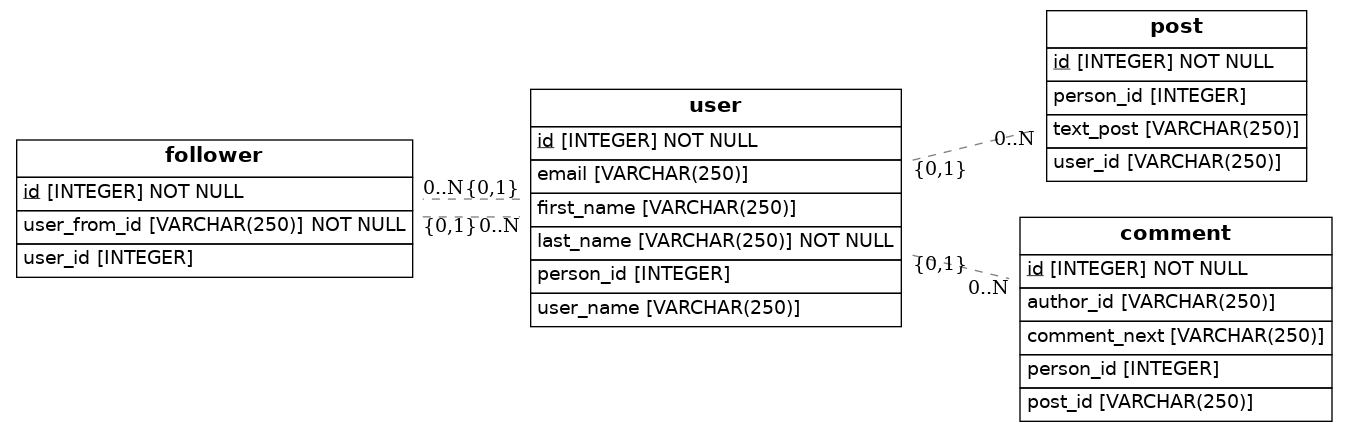
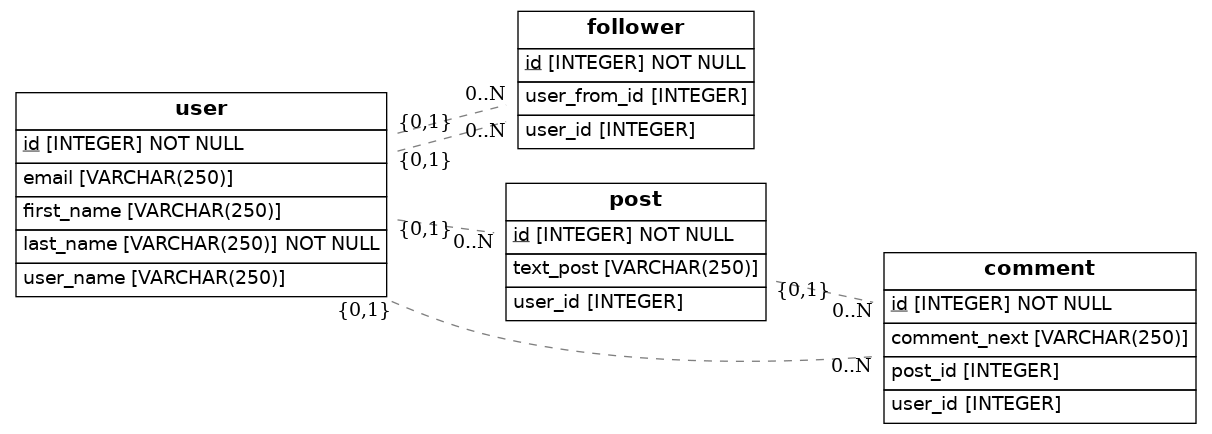
changes errors

diff --git a/src/models.py b/src/models.py
@@ -30,7 +30,7 @@ class Follower(Base):
     # Here we define columns for the table person
     # Notice that each column is also a normal Python instance attribute.
     id = Column(Integer, primary_key=True)
-    user_from_id = Column(String(250), nullable=False)
+    user_from_id = Column(Integer, ForeignKey('user.id'))  #Aqui deberia ir una ForeignKey
     user_id = Column(Integer, ForeignKey('user.id'))
 
 class User(Base):
@@ -42,18 +42,16 @@ class User(Base):
     first_name = Column(String(250))
     last_name = Column(String(250), nullable=False)
     email = Column(String(250))
-    person_id = Column(Integer, ForeignKey('follower.id'))
-    person = relationship(Follower)
+    
 
 class Post(Base):
     __tablename__ = 'post'
     # Here we define columns for the table address.
     # Notice that each column is also a normal Python instance attribute.
     id = Column(Integer, primary_key=True)
-    user_id = Column(String(250))
     text_post = Column(String(250))
-    person_id = Column(Integer, ForeignKey('user.id'))
-    person = relationship(User)
+    user_id = Column(Integer, ForeignKey('user.id')) #para mejor entendimiento y evitar confunsiones nombrar user_id, ya que tu tabla se llama user
+    person = relationship(User) #llamar user
 
 class Comment(Base):
     __tablename__ = 'comment'
@@ -61,11 +59,11 @@ class Comment(Base):
     # Notice that each column is also a normal Python instance attribute.
     id = Column(Integer, primary_key=True)
     comment_next = Column(String(250))
-    author_id = Column(String(250))
-    post_id = Column(String(250))
-    person_id = Column(Integer, ForeignKey('user.id'))
-    person = relationship(Post, User)
-
+    user_id = Column(String(250)) #eliminar, esta haria lo mismo que person_id que deberia llamarse user_id seria user_id
+    post_id = Column(Integer, ForeignKey('post.id')) #Esta debe ser un ForeignKey con post, sino no estas haciendo el vinculo y añadir tambien la relationship
+    user_id = Column(Integer, ForeignKey('user.id')) #igual que en la tabla Post, nombrar user_id
+    person = relationship(Post) #relationship separadas, una por tabla
+    person = relationship(User)
 
     def to_dict(self):
         return {}
